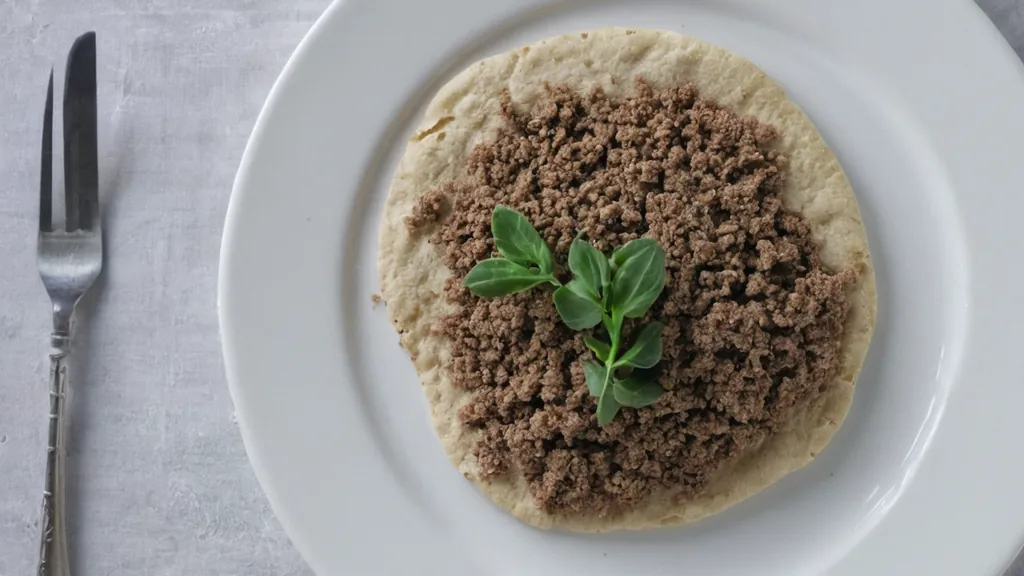
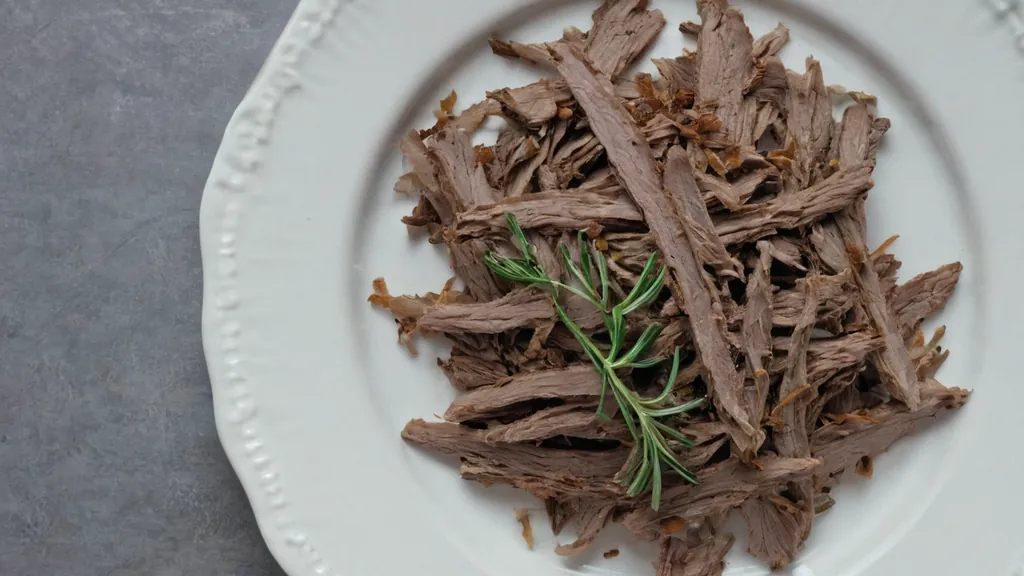
fix(dishes): fix translation, prompt heuristics, and image for beef & lamb gyro meat

diff --git a/bsdm/dishes.py b/bsdm/dishes.py
@@ -83,11 +83,12 @@ _INVISIBLE_RE = re.compile(
     r"(kosher |sea |table )?salt|(black |white |ground )?pepper(corn)?s?|sugar|water|ice"
     # Any oil, however the kitchen spells the blend ("canola/olive oil blend").
     r"|[\w/ ]*oils?( blend)?|cooking spray|butter spray"
-    r"|corn ?starch|arrowroot|xanthan gum|flour|baking (powder|soda)|yeast|msg"
+    r"|breadcrumbs?|bread crumbs?|panko( breadcrumbs?)?"
+    r"|corn ?starch|arrowroot|xanthan gum|[\w\s]*flour|baking (powder|soda)|yeast|msg"
     r"|(white |red |rice |apple cider |balsamic )?vinegar|citric acid|lemon juice|lime juice|orange juice|pineapple juice"
     r"|spices?|seasoning( blend| mix)?|salt and pepper|garlic powder|onion powder|bay (leaves?|leaf)"
     r"|preservatives?|emulsifiers?|food colou?ring|marinade|dredge|glaze|batter"
-    r"|(soy|pea|wheat) protein( isolate)?|wheat gluten|gluten|vital wheat gluten"
+    r"|(soy|pea|wheat) protein(\s+(isolate|concentrate))?|wheat gluten|gluten|vital wheat gluten"
     r"|(potato|tapioca|corn|modified food) starch|(yellow |white )?corn flour|rice flour|maltodextrin|dextrin"
     r"|tricalcium phosphate|leavening agent|paprika extract colou?r|extract colou?r"
     r"|disodium dihydrogen pyrophosphate|sodium bicarbonate|dextrose|cream of tartar|guar gum"
@@ -335,6 +336,21 @@ def is_bowl(dish) -> bool:
 
 def _hero_protein_phrase(dish) -> str | None:
     name = (_get(dish)("name", "") or "").lower()
+    if "gyro" in name:
+        if any(w in name for w in ("chicken", "poultry")):
+            return (
+                "tender juicy sliced Greek chicken gyro meat strips with golden-brown caramelized edges, "
+                "seasoned with oregano, garlic, and lemon herbs"
+            )
+        if any(w in name for w in ("veggie", "plant", "vegan", "vegetarian")):
+            return (
+                "seasoned plant-based gyro strips with caramelized seared edges, "
+                "seasoned with Mediterranean herbs and spices"
+            )
+        return (
+            "thinly sliced tender seasoned Greek gyro meat strips, succulent roasted beef and lamb shavings "
+            "with caramelized browned edges and savory Mediterranean spices, authentic gyro meat slices"
+        )
     if "curried vegetables" in name:
         return (
             "tender simmered sweet potato chunks and green peas thoroughly bathed in rich thick glossy golden-yellow spiced Indian curry gravy, "
@@ -576,16 +592,39 @@ def negative_prompt(dish) -> str:
     """
     category = classify(dish)
     name = _get(dish)("name", "")
+    ing_text = _top_level_ingredients(_get(dish)("ingredients", "") or "")
+    combined_text = f"{name} {ing_text}".lower()
+
+    # Never exclude proteins that are explicitly mentioned in the dish name or top ingredients
+    present_categories = set()
+    for cat, kws in _PRIMARY.items():
+        if any(re.search(rf"\b{re.escape(kw)}", combined_text) for kw in kws):
+            present_categories.add(cat)
+
     if category in ("vegan", "vegetarian") or (
         category == "other" and re.search(r"\b(vegetable|veggie|plant-based)\b", name, re.I)
     ):
         exclude = list(_PROTEIN_NEGATIVE.values()) + ["meat"]
     elif category in _PROTEIN_NEGATIVE:
-        exclude = [v for k, v in _PROTEIN_NEGATIVE.items() if k != category]
+        exclude = [v for k, v in _PROTEIN_NEGATIVE.items() if k != category and k not in present_categories]
     else:
         # "other" is genuinely unknown -- a dish with no icon and no protein
         # keyword may still arrive with meat in it, so nothing is excluded.
         exclude = []
+
+    if re.search(r"\bgyro\b", name, re.I):
+        if "meat" in name.lower():
+            exclude.extend([
+                "pita bread", "pita pocket", "flatbread", "tortilla", "wrap", "sandwich", "burger", "bun",
+                "skewers", "kebab", "shish kebab", "meat on sticks", "skewered meat",
+                "ground meat", "minced meat", "meatballs", "dough", "raw dough",
+                "cutlery", "fork", "knife", "spoon", "silverware", "utensils",
+            ])
+        else:
+            exclude.extend([
+                "skewers", "kebab", "shish kebab", "meat on sticks",
+                "ground meat", "minced meat", "cutlery", "fork", "knife",
+            ])
 
     name = _get(dish)("name", "")
     if re.search(r"\b(rice|basmati|jasmine|grain|quinoa|pilaf)\b", name, re.I):
@@ -673,4 +712,4 @@ def negative_prompt(dish) -> str:
 
 # Bumped whenever the prompt rules change, so already-drawn images can be told
 # apart from ones drawn under the current rules and redrawn in priority order.
-PROMPT_REV = 7
+PROMPT_REV = 8

diff --git a/tests/test_dishes.py b/tests/test_dishes.py
@@ -544,3 +544,43 @@ def test_invisible_spices_excluded_from_hero():
     assert "star anise" not in p
     assert "cinnamon stick" not in p
     assert "cardamom pod" not in p
+
+
+def test_gyro_meat_hero_protein_phrase_and_ingredient_filtering():
+    dish = d(
+        "Beef & Lamb Gyro Meat",
+        "Halal Beef, Water, Bread Crumbs, Salt, Yeast, Sugar, Halal Lamb, Corn Flour, Wheat Flour, Rye Flour, Garlic, Onion Powder, Soy Protein Concentrate",
+        tags=["halal"],
+    )
+    prompt = dishlib.image_prompt(dish)
+    assert "thinly sliced tender seasoned Greek gyro meat strips" in prompt
+    assert "Halal Beef" in prompt
+    assert "Halal Lamb" in prompt
+    assert "Bread Crumbs" not in prompt
+    assert "Wheat Flour" not in prompt
+    assert "Rye Flour" not in prompt
+    assert "Soy Protein Concentrate" not in prompt
+
+
+def test_multi_protein_dishes_do_not_exclude_present_proteins():
+    dish = d(
+        "Beef & Lamb Gyro Meat",
+        "Halal Beef, Halal Lamb, Garlic",
+        tags=["halal"],
+    )
+    negative = dishlib.negative_prompt(dish)
+    assert "lamb" not in negative
+    assert "mutton" not in negative
+    assert "pork" in negative
+    assert "chicken" in negative
+    assert "fish" in negative
+
+
+def test_gyro_meat_negative_exclusions():
+    dish = d("Beef & Lamb Gyro Meat")
+    negative = dishlib.negative_prompt(dish)
+    assert "pita bread" in negative
+    assert "skewers" in negative
+    assert "cutlery" in negative
+    assert "minced meat" in negative
+
